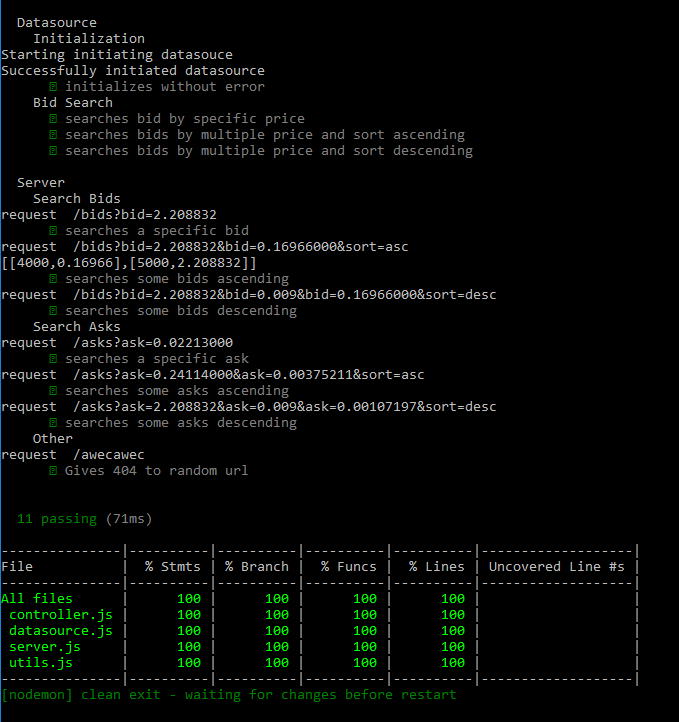
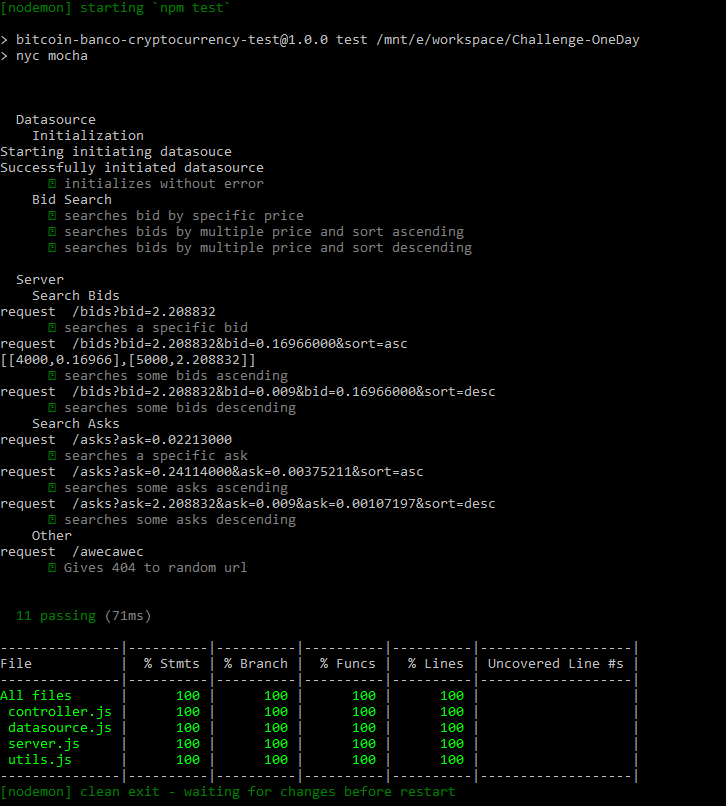
Adicionado imagem Coverage README.md

Changed region(s): [[0.0, 0.0, 0.8969, 0.7313], [0.0, 0.7618, 0.9278, 1.0], [0.866, 0.9141, 0.8969, 0.9446]]

diff --git a/README.md b/README.md
@@ -50,9 +50,9 @@ Parameter|Value|Description
 ## Notes
 * There are no dependencies to the project, therefore it is only using vanilla Node.js
 * The test coverage is 100%
- 
+
 <p align="center">
-  <a href="https://www.btc-banco.com">
-      <img src="" alt="Coverage"/>
+  <a href="https://raw.githubusercontent.com/thiagopromano/Challenge-OneDay/master/testResults.PNG">
+      <img src="https://raw.githubusercontent.com/thiagopromano/Challenge-OneDay/master/testResults.PNG" alt="Coverage"/>
   </a>
 </p>
